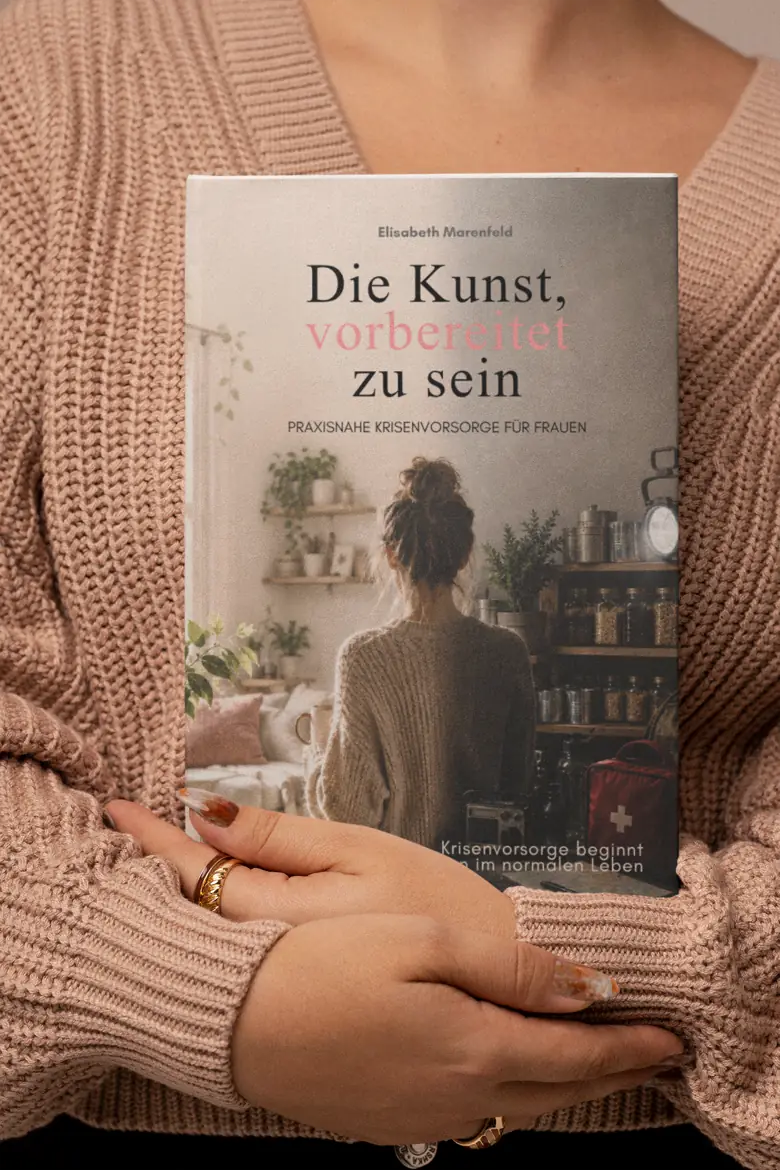
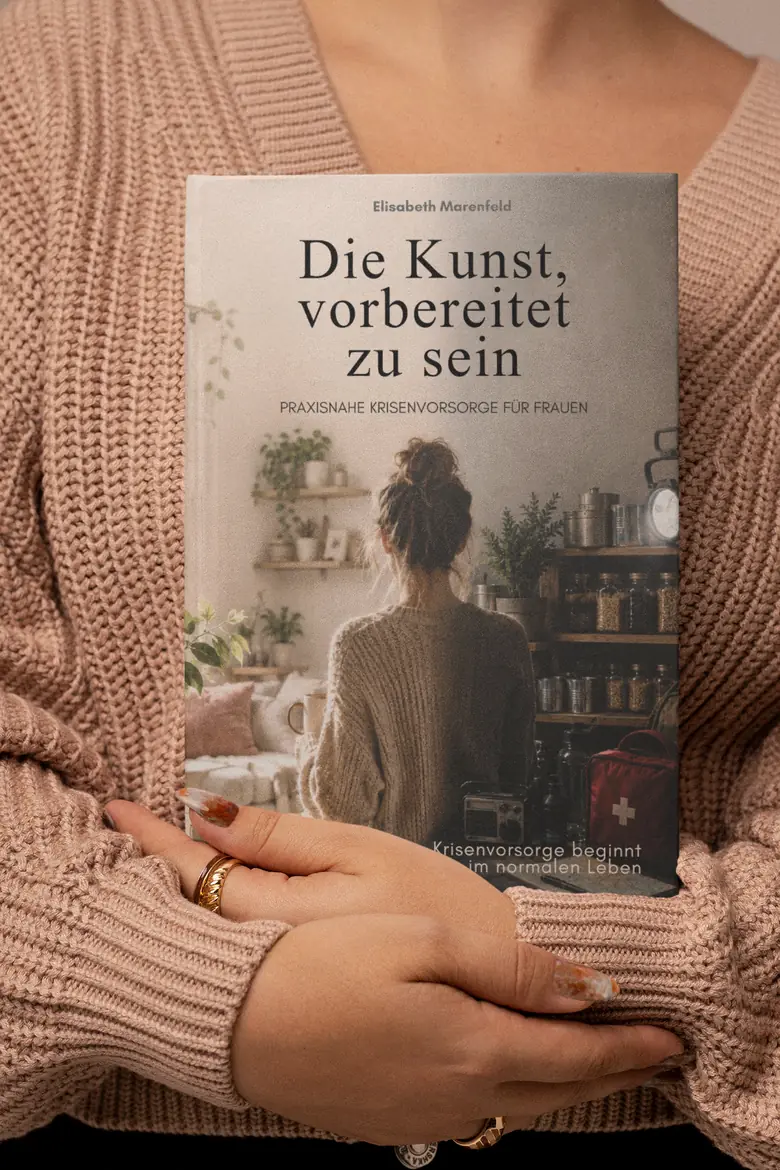
Neues Cover: Wortmarke kursiv, og:image und Hero nachgezogen
Das Buchcover setzt den Titel seit dem 13.08. komplett in Schwarz, weil das
rosé "vorbereitet" im Daumennagel nicht mehr lesbar war. Damit verliert die
Koralle-Zeile auf der Seite ihre Begruendung: sie war die Spiegelung der
Cover-Wortmarke. Hero-Ueberschrift und Kopfzeilen-Marke heben das Wort jetzt
kursiv hervor statt farbig.

- cover-front-web.jpg aus dem neuen E-Book-Cover, 1200 statt 692 px breit
  (og:image auf Startseite und /liste, dazu das image im schema.org-Block)
- bilder/buch-mockup.webp gegen ein Mockup mit dem neuen Cover getauscht,
  gleiches Motiv und gleiche Masse, Alt-Text gilt unveraendert

Changed region(s): [[0.2154, 0.1231, 0.8923, 0.7692], [0.2462, 0.2462, 0.3077, 0.3692], [0.2462, 0.7077, 0.2769, 0.7385]]

diff --git a/index.html b/index.html
@@ -265,7 +265,8 @@ header.gescrollt .kopf{padding-top:11px;padding-bottom:11px}
   font-family:var(--display);font-size:1.08rem;line-height:1.25;
   color:var(--text);text-decoration:none;letter-spacing:.005em;
 }
-.marke b{font-weight:400;color:var(--akzent-text);font-style:italic}
+/* Kursiv statt Koralle, aus demselben Grund wie im Hero (siehe dort). */
+.marke b{font-weight:400;font-style:italic}
 .kopf nav{display:flex;gap:clamp(14px,2.6vw,30px);flex-wrap:wrap}
 .kopf nav a{
   position:relative;color:var(--text);text-decoration:none;
@@ -304,8 +305,11 @@ header.gescrollt .kopf{padding-top:11px;padding-bottom:11px}
 
 .hero h1{margin-bottom:.28em;color:#fff}
 .hero h1 span{display:block}
-/* Koralle-Zeile wie auf dem Cover */
-.hero h1 em{font-style:normal;color:var(--koralle);display:block}
+/* Kursiv wie auf dem Cover. Bis zum 13.08. stand die Zeile in Koralle -
+   das war die Spiegelung der damaligen Cover-Wortmarke. Seit das Cover
+   den Titel komplett in Schwarz setzt, hebt Kursiv die Zeile hervor,
+   ohne eine Farbe zu behaupten, die es auf dem Buch nicht mehr gibt. */
+.hero h1 em{font-style:italic;display:block}
 .hero .unter{
   font-size:.82rem;font-weight:600;letter-spacing:.2em;text-transform:uppercase;
   color:rgba(250,246,240,.62);margin-bottom:1.7em;max-width:none;
